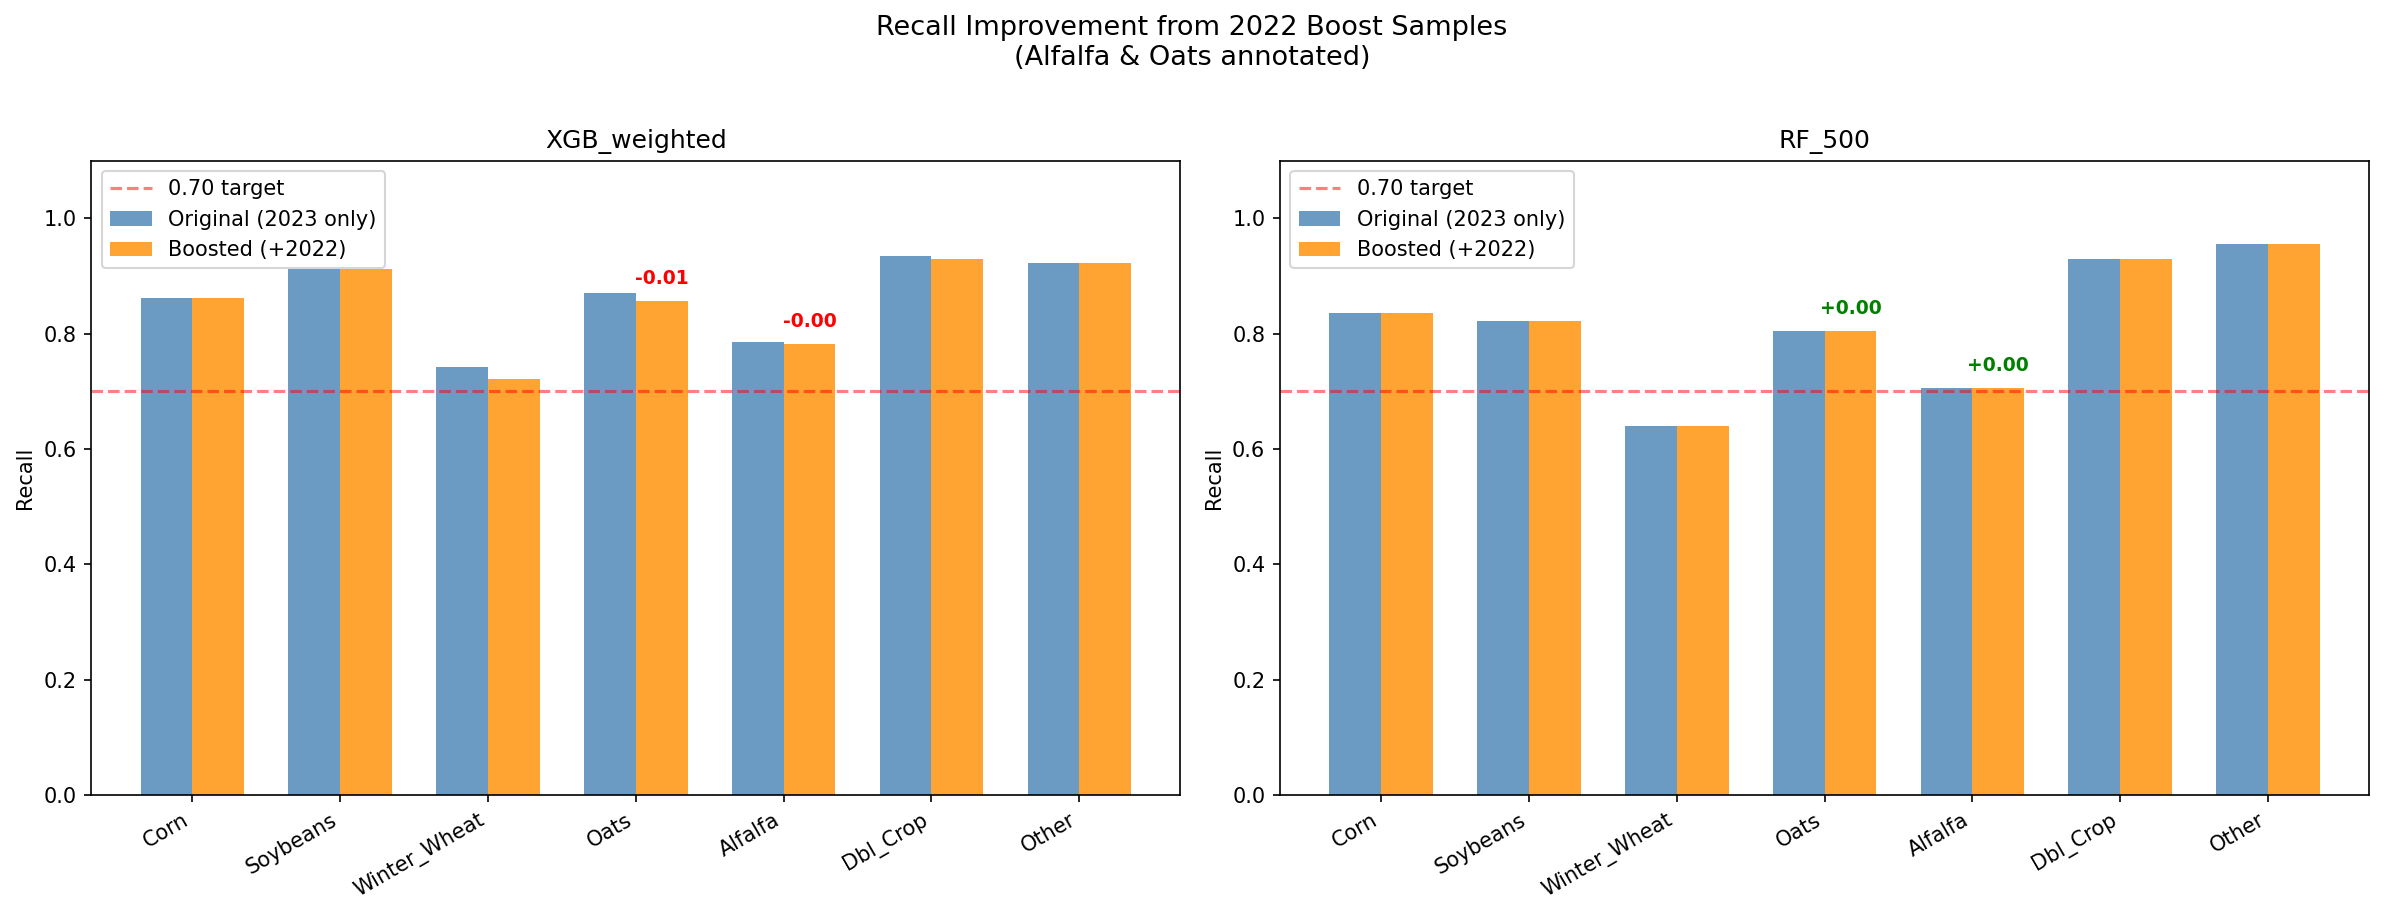
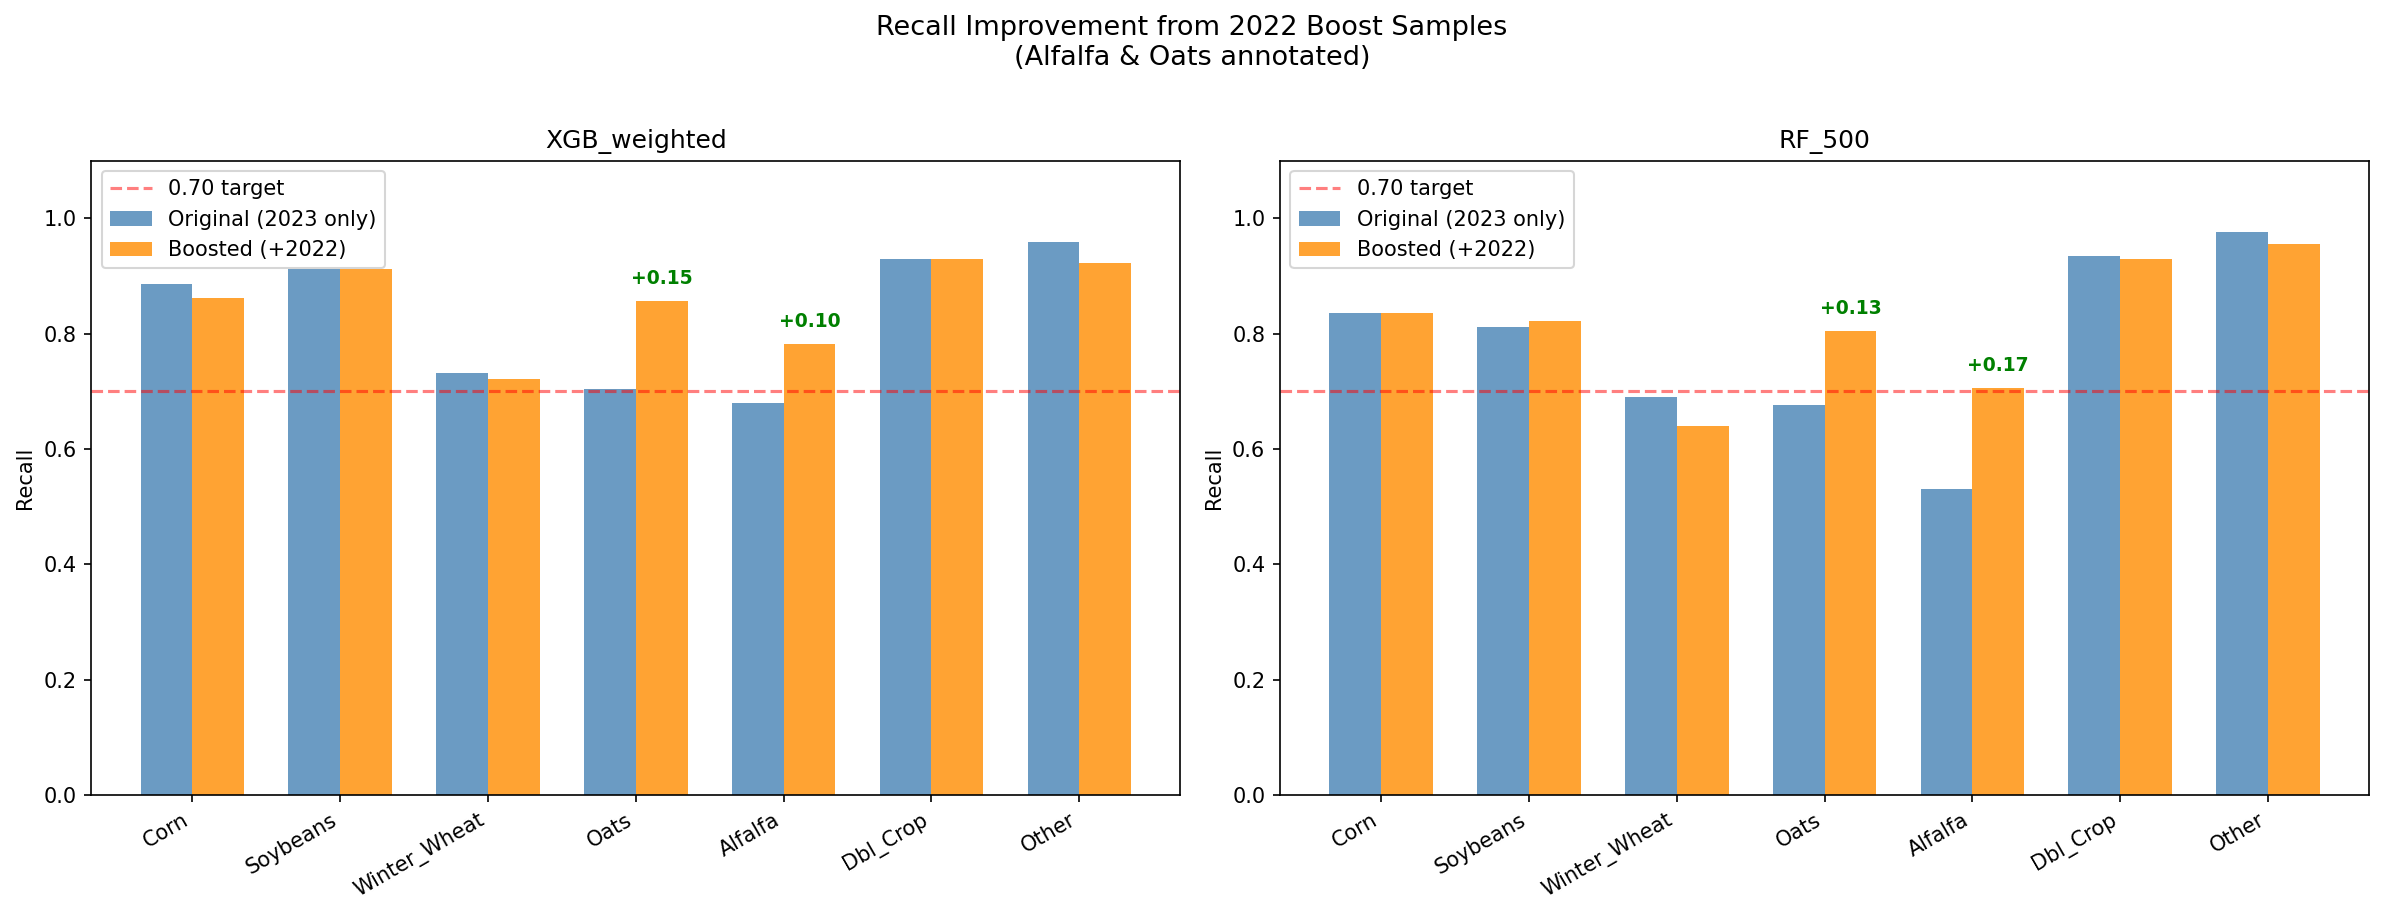
fix chart

diff --git a/local_model_testing/patch_metrics_reports.py b/local_model_testing/patch_metrics_reports.py
@@ -19,8 +19,8 @@ OUT_DIR  = os.path.join(os.path.dirname(__file__), 'outputs')
 CLASS_MAP = {0:'Other', 1:'Corn', 5:'Soybeans', 24:'Winter_Wheat',
              26:'Dbl_Crop', 28:'Oats', 36:'Alfalfa'}
 
-print("Loading training data...")
-df = pd.read_csv(os.path.join(DATA_DIR, 'raw_full_boosted.csv'))
+print("Loading training data (2023-only, pre-boost)...")
+df = pd.read_csv(os.path.join(DATA_DIR, 'raw_full.csv'))
 meta = ['cdl_code','crop_name','dataset','region','label_year',
         'image_year','split','longitude','latitude','cdl_group']
 feat_cols = [c for c in df.columns if c not in meta]
